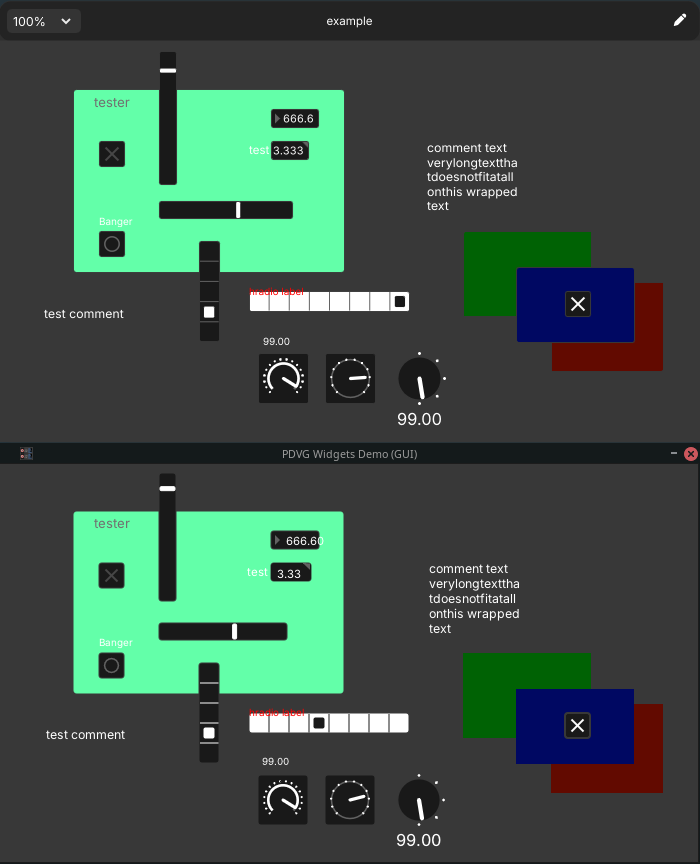
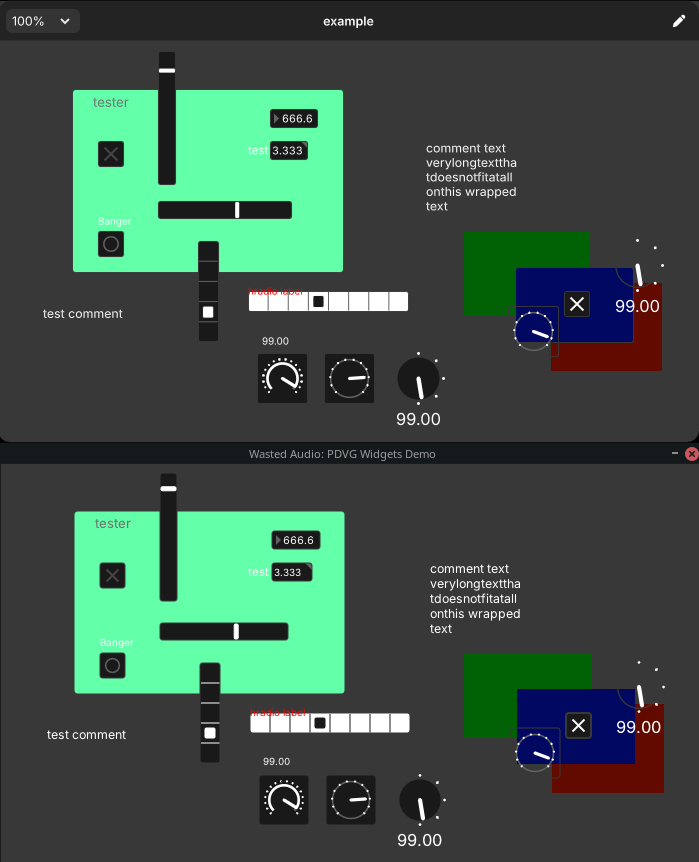
update pdvg; add transparent knobs; update screenshot

diff --git a/plugin/PDVGWidgetsExampleUI.cpp b/plugin/PDVGWidgetsExampleUI.cpp
@@ -166,8 +166,11 @@ PDVGWidgetsExampleUI::PDVGWidgetsExampleUI()
     myNumber->setId(kNumber);
     myNumber->setSize(8 * (2 + 4) * scaleFactor, (2 + 16) * scaleFactor);
     myNumber->setAbsolutePos(272 * scaleFactor, 68 * scaleFactor);
-    myNumber->setRange(0.0f, 1000.0f);
+    myNumber->setRange(1.0f, 1000.0f);
+    myNumber->setUsingLogScale(true);
+    myNumber->setLogarithmicHeight(256);
     myNumber->setDefault(666.6f);
+    myNumber->setNumChars(4);
     myNumber->setColors(
         nvgRGBA(0x19, 0x19, 0x19, 0xFF),
         nvgRGBA(0xFF, 0xFF, 0xFF, 0xFF)
@@ -181,6 +184,7 @@ PDVGWidgetsExampleUI::PDVGWidgetsExampleUI()
     myFloat->setAbsolutePos(272 * scaleFactor, 100 * scaleFactor);
     myFloat->setRange(-10.0f, 10.0f);
     myFloat->setDefault(3.33f);
+    myFloat->setNumChars(5);
     myFloat->setLabel("test", 14 * scaleFactor, LabelPos::Left);
     mainPatch->addManagedChild(myFloat);
 
@@ -246,6 +250,50 @@ PDVGWidgetsExampleUI::PDVGWidgetsExampleUI()
     );
     myKnob3->setLabelStyle(4 * scaleFactor, 59 * scaleFactor, 20 * scaleFactor, LabelShow::ALWAYS);
     mainPatch->addManagedChild(myKnob3);
+
+    // knob4
+    myKnob4 = new PDKnob(mainPatch, this);
+    myKnob4->setId(kKnob4);
+    myKnob4->setSize(50 * scaleFactor, 50 * scaleFactor);
+    myKnob4->setAbsolutePos(510 * scaleFactor, 265 * scaleFactor);
+    myKnob4->setKnobArea(0.0f, 0.0f, 50 * scaleFactor, 50 * scaleFactor);
+    myKnob4->setRange(0.0f, 127.0f);
+    myKnob4->setDefault(99.0f);
+    myKnob4->setShowArc(false);
+    myKnob4->setSteps(12);
+    myKnob4->setDiscrete(true);
+    myKnob4->setShowTicks(true);
+    myKnob4->setTransparent(true);
+    myKnob4->setColors(
+        nvgRGBA(0x19, 0x19, 0x19, 0xFF),
+        nvgRGBA(0xFF, 0xFF, 0xFF, 0xFF),
+        nvgRGBA(0x62, 0x62, 0x62, 0xFF)
+    );
+    myKnob4->setLabelStyle(0 * scaleFactor, 0 * scaleFactor, 12 * scaleFactor, LabelShow::ACTIVE);
+    mainPatch->addManagedChild(myKnob4);
+
+    // knob5
+    myKnob5 = new PDKnob(mainPatch, this);
+    myKnob5->setId(kKnob5);
+    myKnob5->setSize(50 * scaleFactor, 50 * scaleFactor);
+    myKnob5->setAbsolutePos(614 * scaleFactor, 199 * scaleFactor);
+    myKnob5->setKnobArea(0.0f, 0.0f, 50 * scaleFactor, 50 * scaleFactor);
+    myKnob5->setRange(1.0f, 127.0f);
+    myKnob5->setDefault(99.0f);
+    myKnob5->setShowArc(false);
+    myKnob5->setAngular(180, 90);
+    myKnob5->setDrawSquare(false);
+    myKnob5->setSteps(5);
+    myKnob5->setShowTicks(true);
+    myKnob5->setUsingLogScale(PDKnobEventHandler::LogMode::LOG);
+    myKnob5->setTransparent(true);
+    myKnob5->setColors(
+        nvgRGBA(0x19, 0x19, 0x19, 0xFF),
+        nvgRGBA(0xFF, 0xFF, 0xFF, 0xFF),
+        nvgRGBA(0x62, 0x62, 0x62, 0xFF)
+    );
+    myKnob5->setLabelStyle(4 * scaleFactor, 59 * scaleFactor, 20 * scaleFactor, LabelShow::ALWAYS);
+    mainPatch->addManagedChild(myKnob5);
 
     // bang
     myBang = new PDBang(mainPatch, this);
@@ -315,6 +363,12 @@ void PDVGWidgetsExampleUI::parameterChanged(uint32_t index, float value)
         break;
     case kKnob3:
         myKnob3->setValue(value);
+        break;
+    case kKnob4:
+        myKnob4->setValue(value);
+        break;
+    case kKnob5:
+        myKnob5->setValue(value);
         break;
     default:
         break;

diff --git a/plugin/PDVGWidgetsExamplePlugin.cpp b/plugin/PDVGWidgetsExamplePlugin.cpp
@@ -142,6 +142,22 @@ protected:
       parameter.ranges.min = 1.0f;
       parameter.ranges.max = 127.0f;
       break;
+    case kKnob4:
+      parameter.name = "myKnob4";
+      parameter.symbol = "myKnob4";
+      parameter.hints = kParameterIsAutomatable;
+      parameter.ranges.def = 99.0f;
+      parameter.ranges.min = 0.0f;
+      parameter.ranges.max = 127.0f;
+      break;
+    case kKnob5:
+      parameter.name = "myKnob5";
+      parameter.symbol = "myKnob5";
+      parameter.hints = kParameterIsAutomatable | kParameterIsLogarithmic;
+      parameter.ranges.def = 99.0f;
+      parameter.ranges.min = 1.0f;
+      parameter.ranges.max = 127.0f;
+      break;
     case kBang:
       parameter.name = "myBang";
       parameter.symbol = "myBang";
@@ -236,6 +252,12 @@ protected:
     case kKnob3:
       fKnob3 = value;
       break;
+    case kKnob4:
+      fKnob4 = value;
+      break;
+    case kKnob5:
+      fKnob5 = value;
+      break;
     default:
       break;
     }
@@ -259,6 +281,8 @@ private:
   float fKnob;
   float fKnob2;
   float fKnob3;
+  float fKnob4;
+  float fKnob5;
   float fBang;
 
   DISTRHO_DECLARE_NON_COPYABLE_WITH_LEAK_DETECTOR(PDVGWidgetsExamplePlugin)

diff --git a/plugin/PDVGWidgetsExampleUI.hpp b/plugin/PDVGWidgetsExampleUI.hpp
@@ -57,6 +57,8 @@ private:
     ScopedPointer<PDKnob> myKnob;
     ScopedPointer<PDKnob> myKnob2;
     ScopedPointer<PDKnob> myKnob3;
+    ScopedPointer<PDKnob> myKnob4;
+    ScopedPointer<PDKnob> myKnob5;
     ScopedPointer<PDBang> myBang;
 
     DISTRHO_DECLARE_NON_COPYABLE_WITH_LEAK_DETECTOR(PDVGWidgetsExampleUI)

diff --git a/plugin/DistrhoPluginInfo.h b/plugin/DistrhoPluginInfo.h
@@ -27,6 +27,8 @@ enum Parameters
     kKnob,
     kKnob2,
     kKnob3,
+    kKnob4,
+    kKnob5,
     kBang,
     kParameterCount
 };
